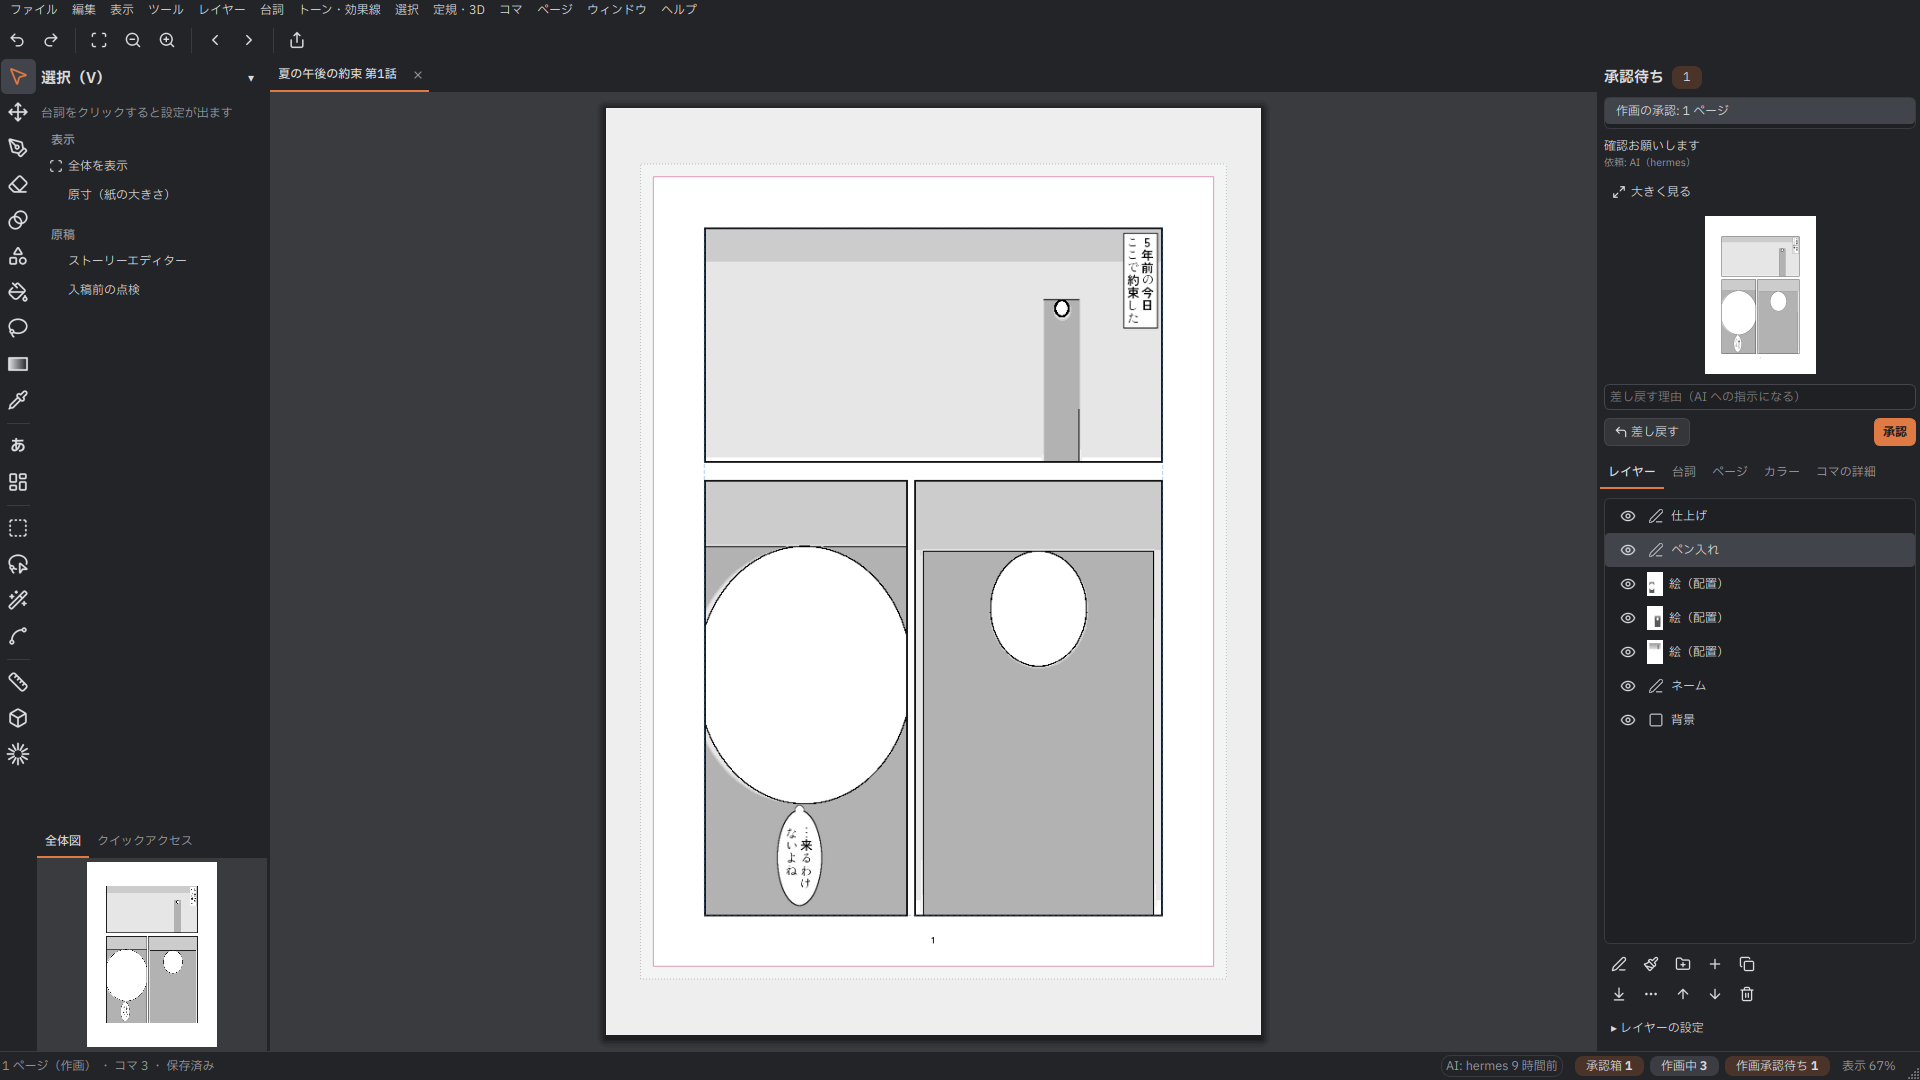
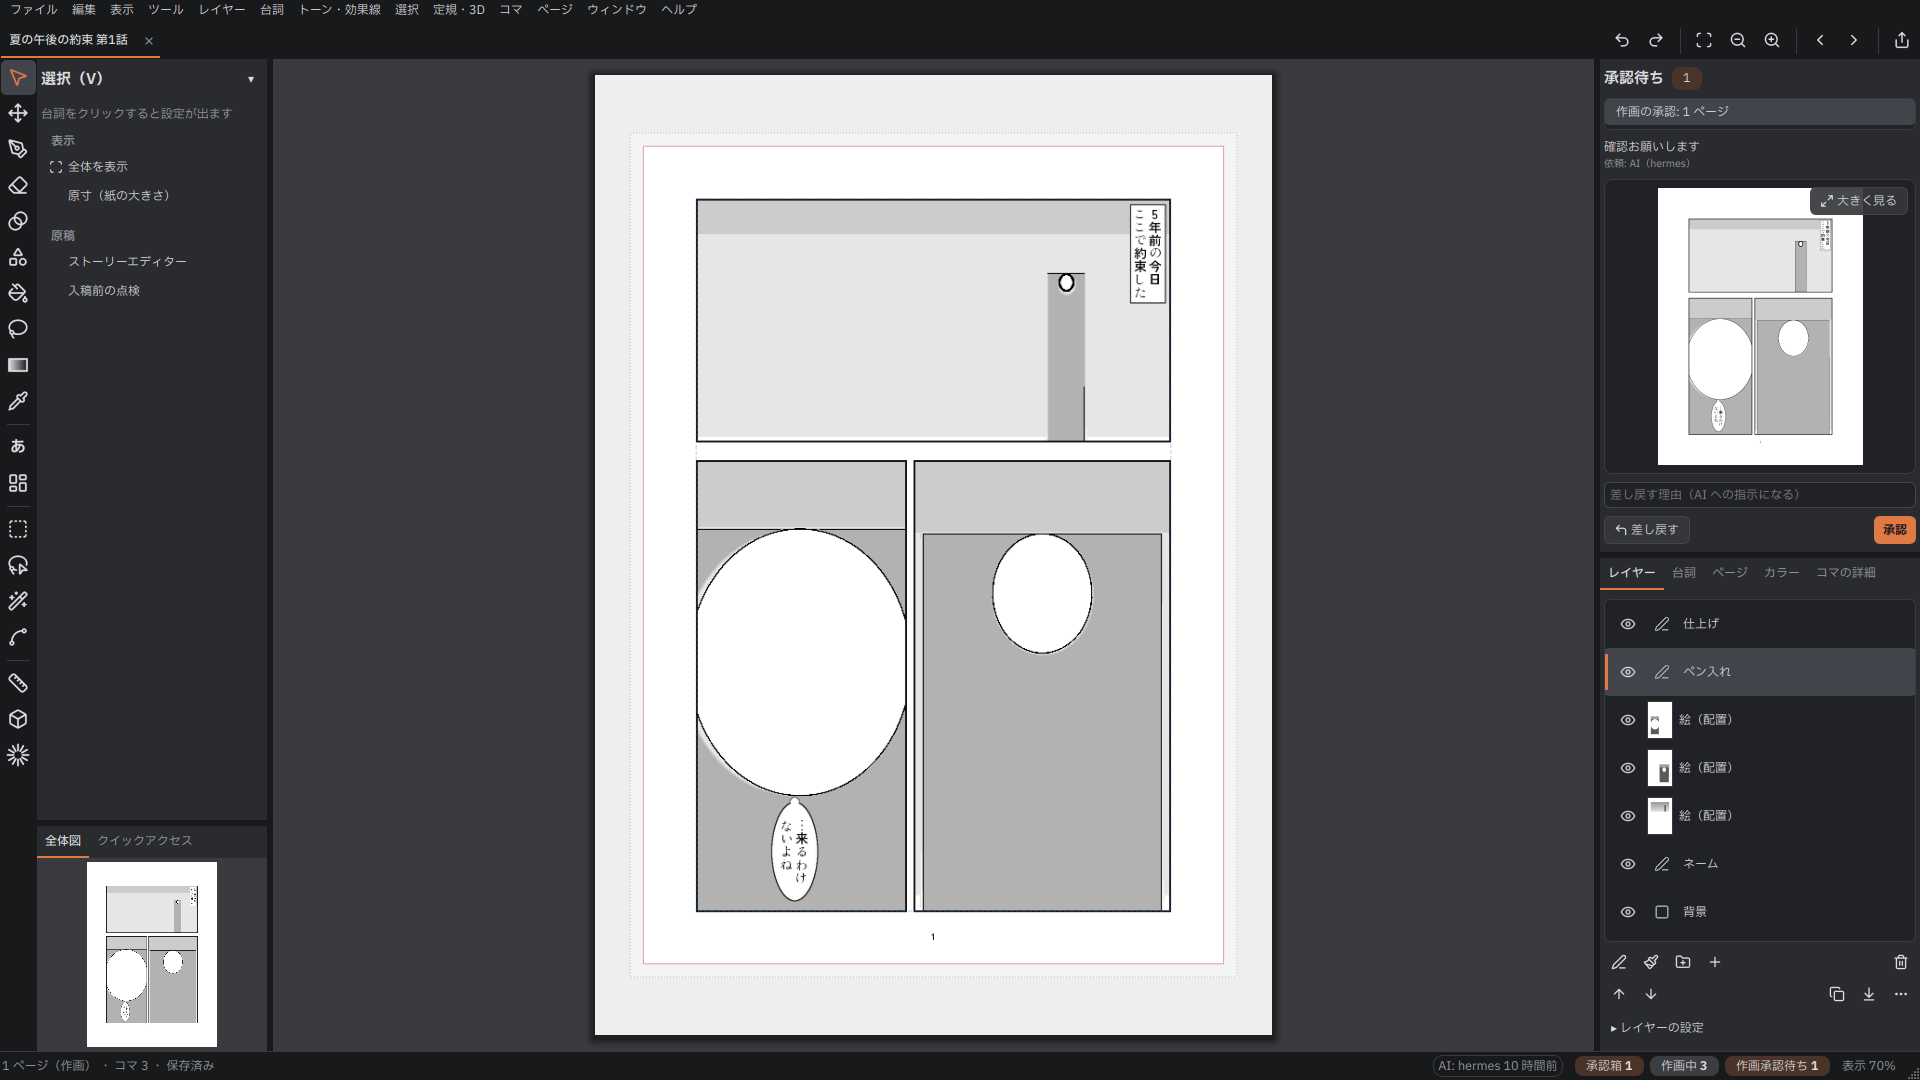
UI polish 2: one top row, surfaces, layer rows, the approval picture, short motion
- the open books' tabs sit at the start of the command bar (one row over the page, not two)
- a darker window ground, lighter panels and a 6px gap between them
- layer rows: a framed 30x38 picture, marks, blend and opacity on the right, an accent bar on the chosen row;
  the buttons in two groups (add / delete, move / combine)
- the approval page as wide as the box, 大きく見る over its corner
- short fades when the approval box comes, a tab comes forward or another request is chosen (none when the
  person asks for fewer moving things)

Claude-Session: https://claude.ai/code/session_01TWawDpMQYSFXdWMKR2zeoK

diff --git a/src/genko/app/theme.py b/src/genko/app/theme.py
@@ -47,11 +47,11 @@ class Tokens:
     surround: str    # around the page on the canvas
 
 
-LIGHT = Tokens(False, window="#e3e4e6", panel="#eeeff1", base="#f8f8f9", raised="#f4f5f6", hover="#e2e4e8",
-               border="#c9ccd1", divider="#d8dade", text="#1f2124", muted="#62666d", faint="#a3a7ad",
+LIGHT = Tokens(False, window="#d7d9dd", panel="#f1f2f4", base="#fafafb", raised="#f7f8f9", hover="#e5e7eb",
+               border="#c6c9cf", divider="#dcdee2", text="#1f2124", muted="#62666d", faint="#a3a7ad",
                accent="#d9601f", accent_text="#ffffff", accent_soft="#f6dccb", selected="#d9dde4", danger="#c0392b",
                ok="#2f7d4f", surround="#9ea0a4")
-DARK = Tokens(True, window="#232427", panel="#2b2c30", base="#1f2023", raised="#34363a", hover="#3b3d42",
+DARK = Tokens(True, window="#18191b", panel="#2a2b2f", base="#212225", raised="#34363a", hover="#3b3d42",
               border="#44464c", divider="#393b40", text="#dcdde0", muted="#9a9ea6", faint="#62656b",
               accent="#e07a45", accent_text="#1b1b1d", accent_soft="#4a3429", selected="#41444b", danger="#e0685a",
               ok="#6cc18f", surround="#3a3b3e")
@@ -211,11 +211,13 @@ def style_sheet(t: Tokens, pt: float = 9.0) -> str:
     big, head, small = f"{pt + 5:g}pt", f"{pt + 2:g}pt", f"{max(MIN_PT, pt - 1):g}pt"
     return f"""
 QMainWindow, QDialog {{ background: {t.window}; }}
-QMainWindow::separator {{ background: {t.window}; width: 3px; height: 3px; }}
+QMainWindow::separator {{ background: {t.window}; width: 6px; height: 6px; }}
 QMainWindow::separator:hover {{ background: {t.accent_soft}; }}
 QDockWidget {{ color: {t.text}; titlebar-close-icon: none; }}
 QDockWidget::title {{ background: {t.panel}; padding: 5px 8px; border-bottom: 1px solid {t.divider}; text-align: left; font-weight: 500; }}
 QDockWidget > QWidget {{ background: {t.panel}; }}
+QDockWidget QScrollArea, QDockWidget QScrollArea > QWidget, QDockWidget QScrollArea > QWidget > QWidget {{ background: {t.panel}; }}
+QMainWindow > QTabBar {{ background: {t.panel}; }}
 QWidget#panelBody {{ background: {t.panel}; }}
 QTabWidget::pane {{ border: none; border-top: 1px solid {t.divider}; background: {t.panel}; }}
 QTabBar {{ qproperty-drawBase: 0; }}
@@ -321,6 +323,9 @@ QFrame#dialogCard {{ background: {t.panel}; border: 1px solid {t.divider}; borde
 QWidget#dialogFooter {{ border-top: 1px solid {t.divider}; }}
 QWidget#launcher {{ background: {t.panel}; border: 1px solid {t.border}; border-radius: 6px; }}
 QLabel#startNotice {{ background: {t.accent_soft}; color: {t.text}; border-radius: 6px; padding: 8px; }}
+QLabel#approvalPreview {{ background: {t.base}; border: 1px solid {t.divider}; border-radius: 8px; padding: 8px; }}
+QPushButton#overPicture {{ background: {_rgba(t.raised, 0.92)}; border: 1px solid {t.border}; border-radius: 6px; padding: 4px 8px; }}
+QPushButton#overPicture:hover {{ background: {t.hover}; }}
 QWidget#firstSteps {{ background: {t.panel}; border-bottom: 1px solid {t.divider}; }}
 QWidget#startCard {{ background: {t.panel}; border: 1px solid {t.divider}; border-radius: 8px; }}
 QPushButton#actionCard {{ background: {t.panel}; border: 1px solid {t.divider}; border-radius: 12px; padding: 0; text-align: left; }}

diff --git a/src/genko/app/studio_widgets.py b/src/genko/app/studio_widgets.py
@@ -155,6 +155,10 @@ class PreviewLabel(QLabel):
     def resizeEvent(self, event) -> None:  # noqa: N802
         super().resizeEvent(event)
         self._fit()
+        corner = getattr(self, "corner", None)
+        if corner is not None:  # (a button over the picture's top right corner)
+            corner.adjustSize()
+            corner.move(self.width() - corner.width() - 8, 8)
 
     def mouseDoubleClickEvent(self, event) -> None:  # noqa: N802
         self.activated.emit()
@@ -177,11 +181,15 @@ class ApprovalBox(QWidget):
         self.page_pick = QComboBox()
         self.page_pick.currentIndexChanged.connect(lambda _: self._page_changed())
         self.preview = PreviewLabel()
+        self.preview.setObjectName("approvalPreview")
         self.preview.activated.connect(self.open_viewer)
         self.preview.setMinimumHeight(170)
-        self.big = theme.iconic(QPushButton("大きく見る"), "expand")
-        self.big.setProperty("row", True)
+        # the page as wide as the box, with 大きく見る over its corner (not a row of its own)
+        self.big = theme.iconic(QPushButton("大きく見る", self.preview), "expand")
+        self.big.setObjectName("overPicture")
+        self.big.setCursor(Qt.CursorShape.PointingHandCursor)
         self.big.clicked.connect(self.open_viewer)
+        self.preview.corner = self.big
         self.choices = QListWidget()
         self.choices.setViewMode(QListWidget.ViewMode.IconMode)
         self.choices.setIconSize(QSize(120, 150))
@@ -199,7 +207,6 @@ class ApprovalBox(QWidget):
         buttons.addWidget(self.approve_button)
         head = QHBoxLayout()
         head.addWidget(self.page_pick, 1)
-        head.addWidget(self.big)
         self.empty = QLabel("承認を待っている依頼はありません。\nAI が依頼を出すと、ここに届きます。")
         self.empty.setAlignment(Qt.AlignmentFlag.AlignCenter)
         theme.role(self.empty, "hint")
@@ -299,6 +306,10 @@ class ApprovalBox(QWidget):
         if follow and item.pages:
             self.window.go_to_page(item.pages[0])
         self._preview()
+        if follow:  # (another request chosen: its page fades in)
+            from genko.app import comfort
+
+            comfort.fade_in(self.preview, 140)
         fit = getattr(self.window, "_fit_box", None)
         if callable(fit):
             QTimer.singleShot(0, self, fit)  # (the box as tall as this request needs)

diff --git a/src/genko/app/comfort.py b/src/genko/app/comfort.py
@@ -402,6 +402,34 @@ def toast(window, text: str, ms: int = 5000) -> QLabel:
     return note
 
 
+def fade_in(widget, ms: int = 160, rise: int = 0) -> None:
+    """A panel coming into sight fades in (and rises a few pixels when asked) instead of popping; nothing moves
+    when the person asks for fewer moving things. The effect is taken off when done, so drawing stays as fast."""
+    if widget is None or reduce_motion() or widget.graphicsEffect() is not None:
+        return
+    from PySide6.QtCore import QEasingCurve, QPropertyAnimation
+    from PySide6.QtWidgets import QGraphicsOpacityEffect
+
+    fade = QGraphicsOpacityEffect(widget)
+    fade.setOpacity(0.0)
+    widget.setGraphicsEffect(fade)
+    move = QPropertyAnimation(fade, b"opacity", fade)  # (owned by the effect: they go together)
+    move.setDuration(ms)
+    move.setStartValue(0.0)
+    move.setEndValue(1.0)
+    move.setEasingCurve(QEasingCurve.Type.OutCubic)
+    move.finished.connect(lambda: _alive(widget) and widget.graphicsEffect() is fade and widget.setGraphicsEffect(None))
+    move.start()
+    if rise:
+        end = widget.pos()
+        slide = QPropertyAnimation(widget, b"pos", widget)
+        slide.setDuration(ms + 20)
+        slide.setStartValue(end + QPointF(0, rise).toPoint())
+        slide.setEndValue(end)
+        slide.setEasingCurve(QEasingCurve.Type.OutCubic)
+        slide.start()
+
+
 def _alive(widget) -> bool:
     try:
         widget.objectName()

diff --git a/tests/test_j1.py b/tests/test_j1.py
@@ -69,12 +69,14 @@ def test_command_search_finds_and_runs(window, qapp):
 def test_the_command_bar_can_be_changed(window):
     from genko.app import workspace
 
-    names = [a.text() for a in window.command_bar.actions() if not a.isSeparator()]
+    # (the books' tabs sit at the start of the same bar and stay when the commands change)
+    names = [a.text() for a in window.command_bar.actions() if not a.isSeparator() and not a.property("keep")]
     assert names[:2] == ["元に戻す", "やり直す"] and "書き出し…" in names
     workspace.keep("ui/commandbar", ["印刷…", "|", "ペン"])
     workspace.fill_commandbar(window)
-    names = [a.text() for a in window.command_bar.actions() if not a.isSeparator()]
+    names = [a.text() for a in window.command_bar.actions() if not a.isSeparator() and not a.property("keep")]
     assert names == ["印刷…", "ペン"]
+    assert window.command_bar.widgetForAction(window.command_bar.actions()[0]) is window.doc_tabs
 
 
 def test_quick_access_holds_chosen_commands(window, qapp):

diff --git a/tests/test_ui_look.py b/tests/test_ui_look.py
@@ -304,7 +304,7 @@ def test_the_top_bar_is_pictures_and_the_panel_is_rows(window):
     from PySide6.QtWidgets import QLabel, QPushButton
 
     assert window.command_bar.toolButtonStyle() == Qt.ToolButtonStyle.ToolButtonIconOnly
-    assert all(not a.icon().isNull() for a in window.command_bar.actions() if not a.isSeparator())
+    assert all(not a.icon().isNull() for a in window.command_bar.actions() if not a.isSeparator() and not a.property("keep"))
     window.act_frame.trigger()
     page = window.tool_settings.stack.currentWidget()
     sections = [label.text() for label in page.findChildren(QLabel) if label.property("role") == "section"]

diff --git a/src/genko/app/workspace.py b/src/genko/app/workspace.py
@@ -289,7 +289,11 @@ class QuickAccess(QWidget):
 def fill_commandbar(window) -> None:
     """The command bar (under the menus) with the chosen commands."""
     bar = window.command_bar
-    bar.clear()
+    for action in bar.actions():  # (the books' tabs and the room after them stay; the commands are put again)
+        if not action.property("keep"):
+            bar.removeAction(action)
+            if action.isSeparator() and action.parent() is bar:
+                action.deleteLater()
     actions = by_text(window)
     for name in chosen("ui/commandbar", DEFAULT_COMMANDBAR):
         if name == "|":

diff --git a/tests/test_g2.py b/tests/test_g2.py
@@ -73,7 +73,8 @@ def test_layers_are_compact_and_empty_ones_have_no_picture(window):
 
     panel = window.layers
     panel.refresh()
-    assert panel.list.iconSize().height() <= 24
+    # (a picture big enough to tell layers apart, in a row that stays one line: about 44 px)
+    assert 30 <= panel.list.iconSize().height() <= 40 and panel.list.sizeHintForRow(0) <= 48
     # nothing drawn yet: each row shows its kind's quiet mark, not a picture of the layer
     assert all(panel.list.item(i).data(Qt.ItemDataRole.UserRole + 1) == "mark" for i in range(panel.list.count()))
 

diff --git a/docs/ux-review/README.md b/docs/ux-review/README.md
@@ -134,3 +134,17 @@ Figma・Linear・Procreate・CLIP STUDIO と並べて見たときの差（右の
 - 変えていないもの：原稿の用紙の外側（仕上がりの外）の灰色は、書き出しと同じ描画の一部なので変えていない。
 - 1366×768 では右のタブが幅に収まらず、左右の矢印で送る（名前は切らない）。
 - Windows・Mac の実機での見え方は未確認。
+
+## 仕上げ 2（R1〜R5）
+
+| 番号 | 変えたこと | 場所 |
+|---|---|---|
+| R1 | 原稿のタブをコマンドの列の左に入れ、上の 2 段を 1 段にした（コマンドは右寄せ。ウィンドウ → コマンドバーを変える で並べ替えてもタブは残る） | `main.py`・`workspace.fill_commandbar` |
+| R2 | 面を分けた：窓の地を一段暗く（明 #d7d9dd・暗 #18191b）、パネルは明るい面、パネルの間は 6px のすき間 | `theme.py` |
+| R3 | レイヤーの行：縮小画像を 30×38 に（枠つき）、名前の右に印・合成・不透明度（通常と 100% のときは出さない）、選んだ行の左にアクセントの線。下のボタンを「足す（右端に消す）」と「並べる・まとめる」の 2 つに分けた | `main.py`（`_LayerRow`） |
+| R4 | 承認待ちの絵を列の幅いっぱいに、枠のある面にのせ、「大きく見る」を絵の右上に重ねた。絵のある依頼は列の高さの半分まで使う | `studio_widgets.py`・`main.py` |
+| R5 | 短い動き：承認待ちが出るとき（0.2 秒）、タブを切り替えたとき・別の依頼を選んだとき（0.14 秒）にふわっと出る。「動きを減らす」（OS の設定に従う）のときは動かない。終わると効果を外すので描画は遅くならない | `comfort.fade_in` |
+
+- 途中で見つけたこと：コマンドの列を窓の外の部品の中へ移すと、窓を閉じるときに落ちた（Qt）。列は元の場所に置いたまま、タブを列の中に入れる形にした。
+- 押したときの色の変わり方に「動き」を付けることは、Qt のスタイルシートにその仕組みが無いので入れていない（押したときの色は前からある）。
+- Windows・Mac の実機での見え方と動きの滑らかさは未確認。
